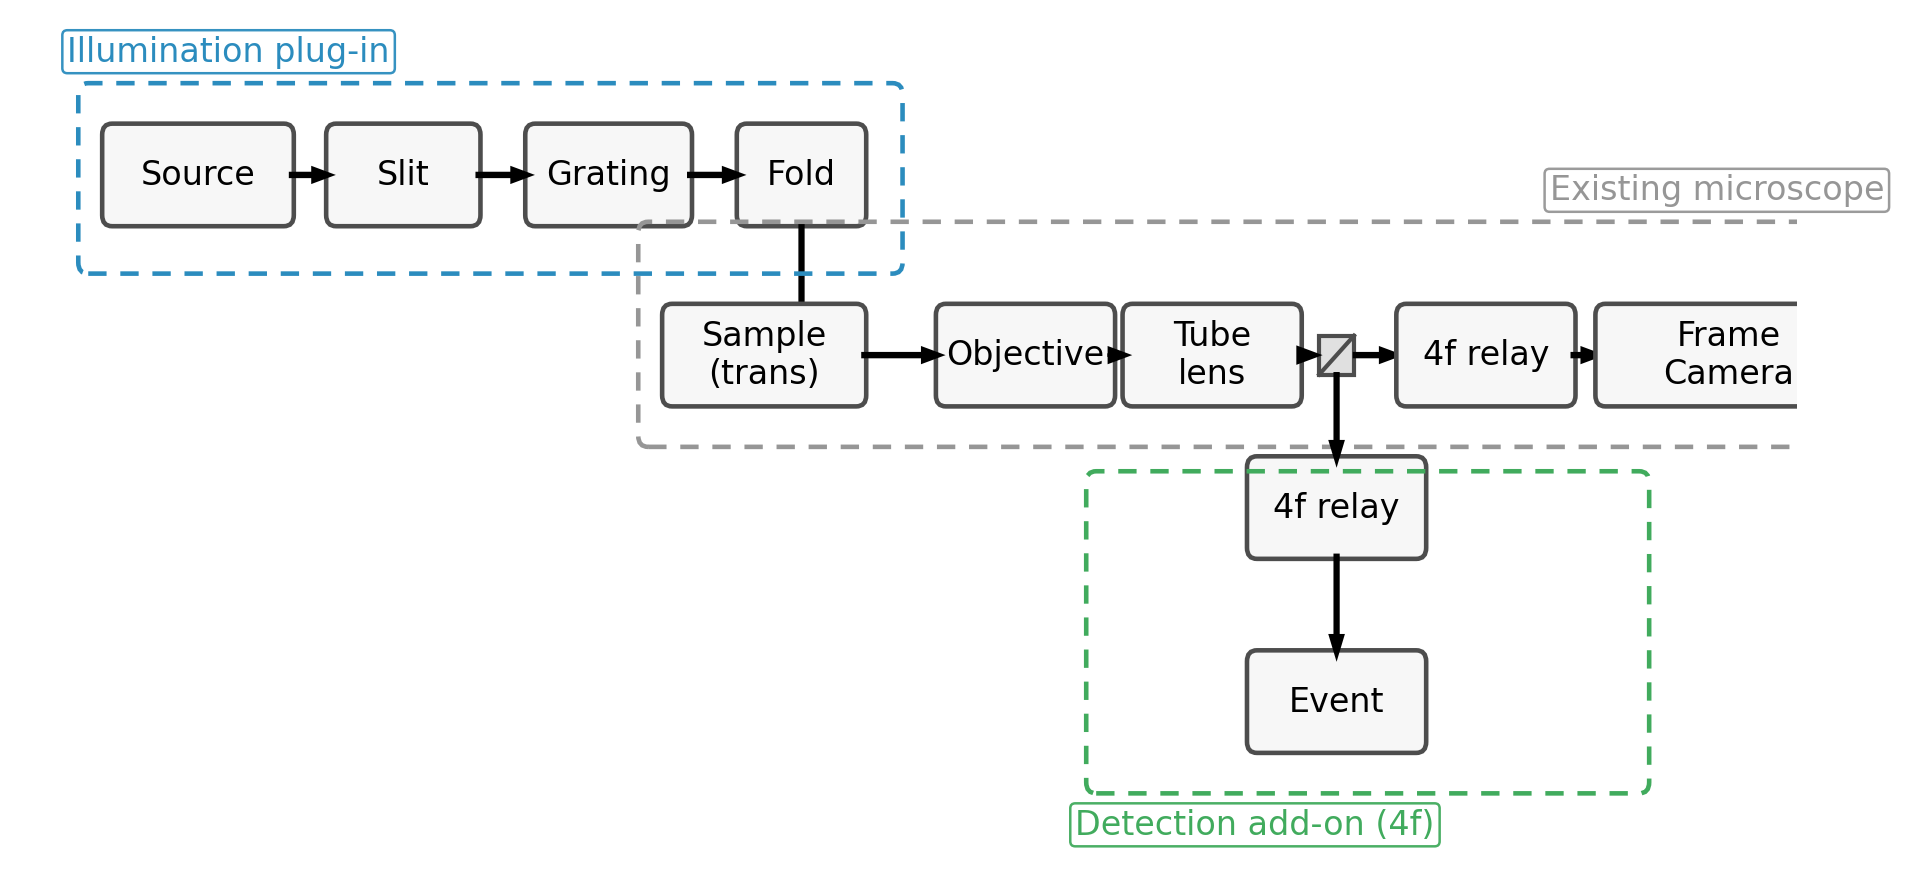
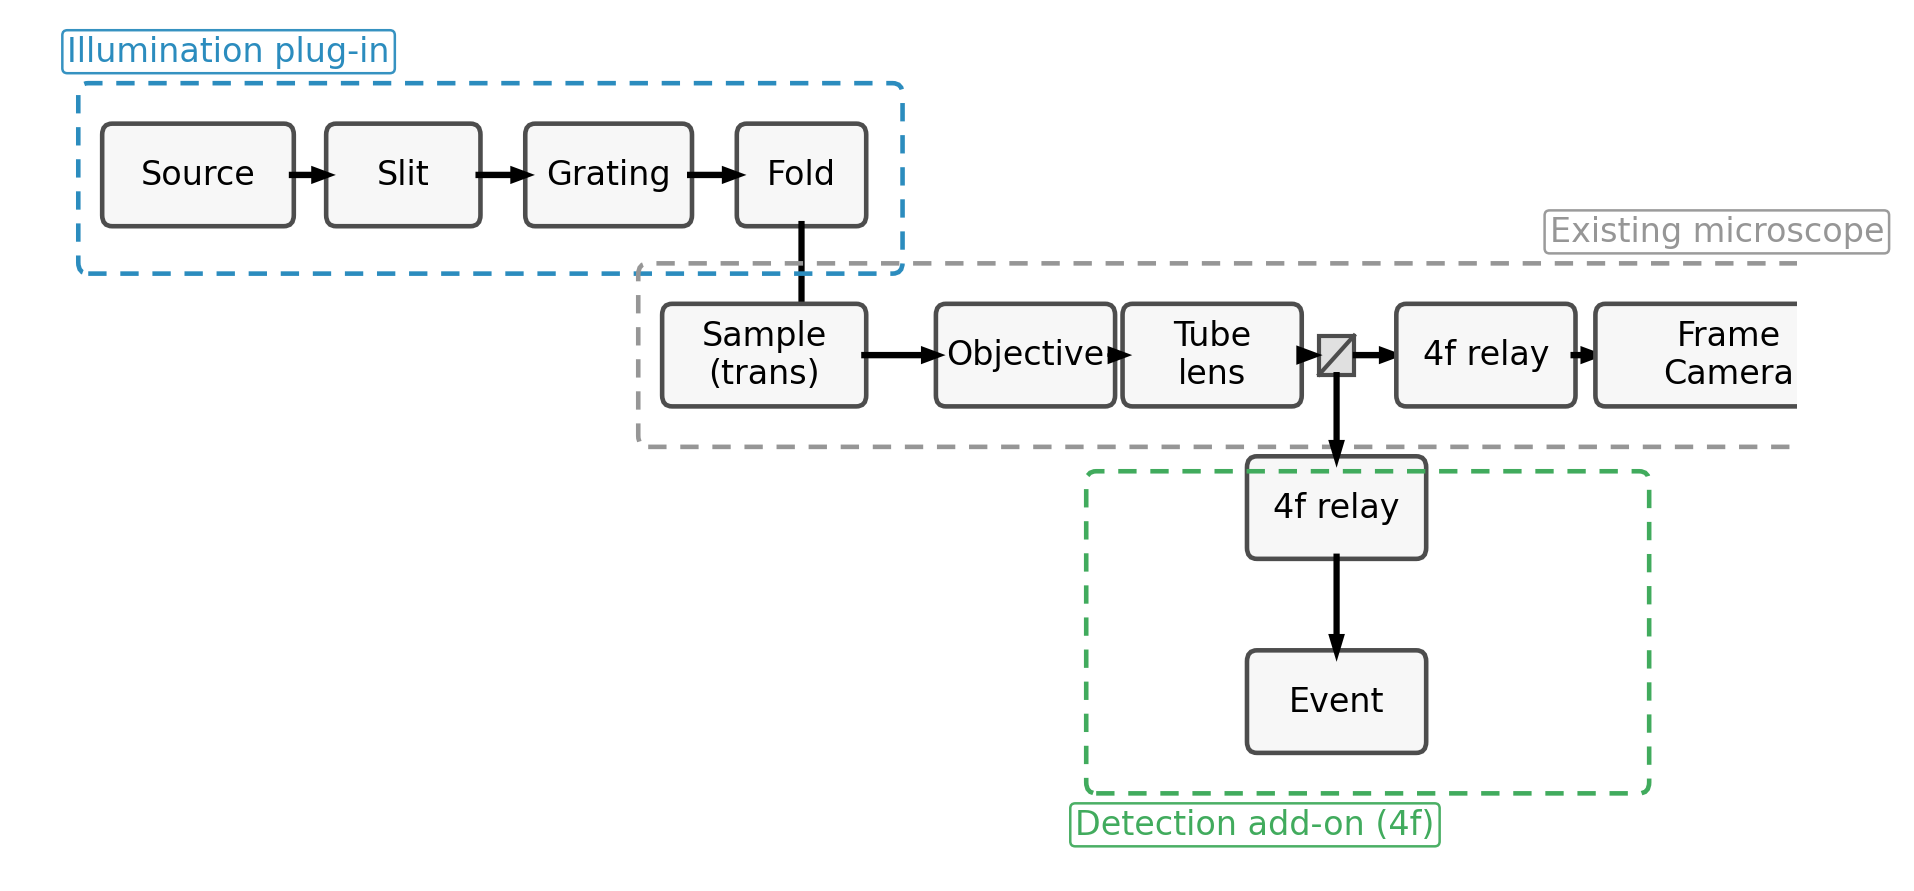
style(figure1): reduce existing microscope dashed-box height to 1.3 for a lighter look; rebuild figure and LaTeX

Changed region(s): [[0.3391, 0.1818, 1.0, 0.303]]

diff --git a/publication_code/figure01_system_overview.py b/publication_code/figure01_system_overview.py
@@ -176,7 +176,8 @@ def render(out_path: Path) -> None:
     # Detection add-on around relay->event (label outside bottom-left)
     add_plugin_box(ax, 8.5, 0.5, 4.5, 2.3, label="Detection add-on (4f)", ec="#41ab5d", label_pos="outside-bl")
     # Existing microscope frame around sample->tube lens (+ original camera), label outside top-right
-    add_plugin_box(ax, 4.9, 3.0, 9.9, 1.6, label="Existing microscope", ec="#969696", label_pos="outside-tr")
+    # Shorter height to reduce visual weight while covering components
+    add_plugin_box(ax, 4.9, 3.0, 9.9, 1.3, label="Existing microscope", ec="#969696", label_pos="outside-tr")
 
     # Keep diagram clean: avoid extra annotations that can overlap
 
